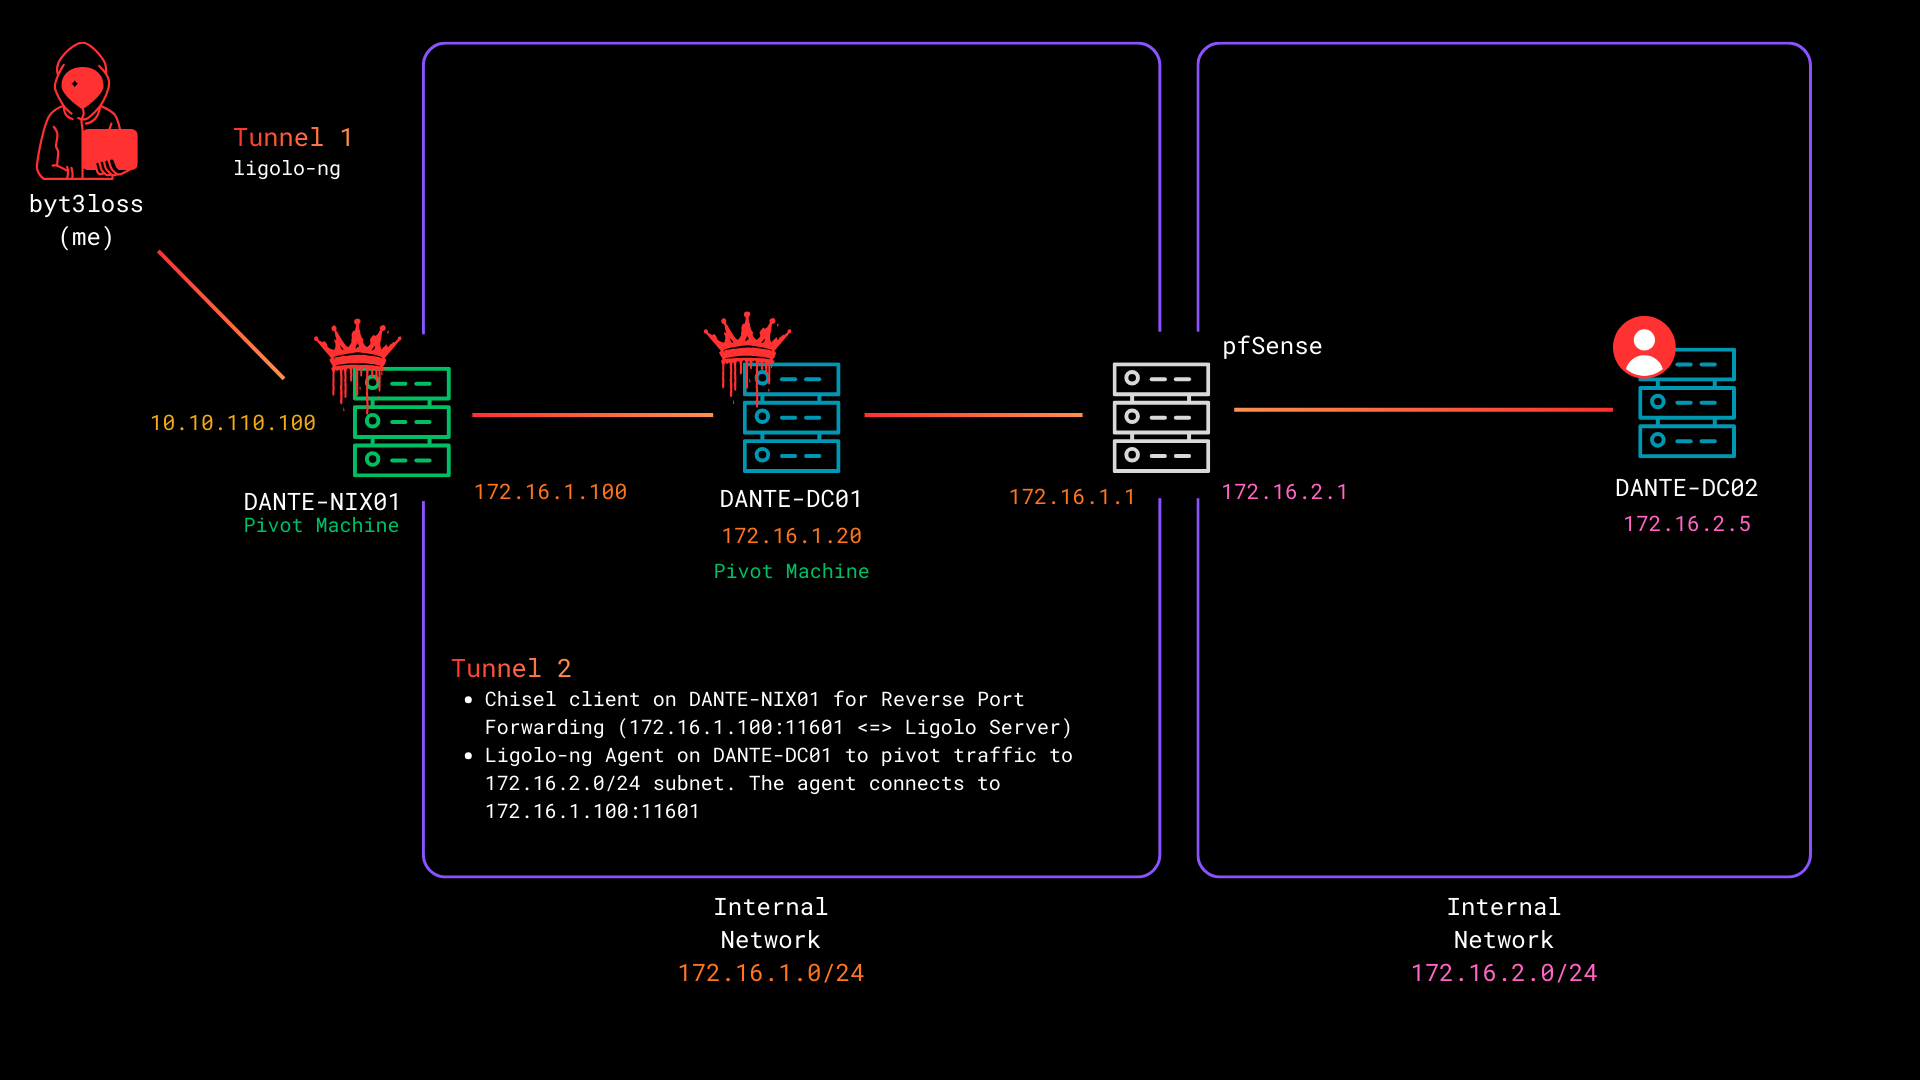
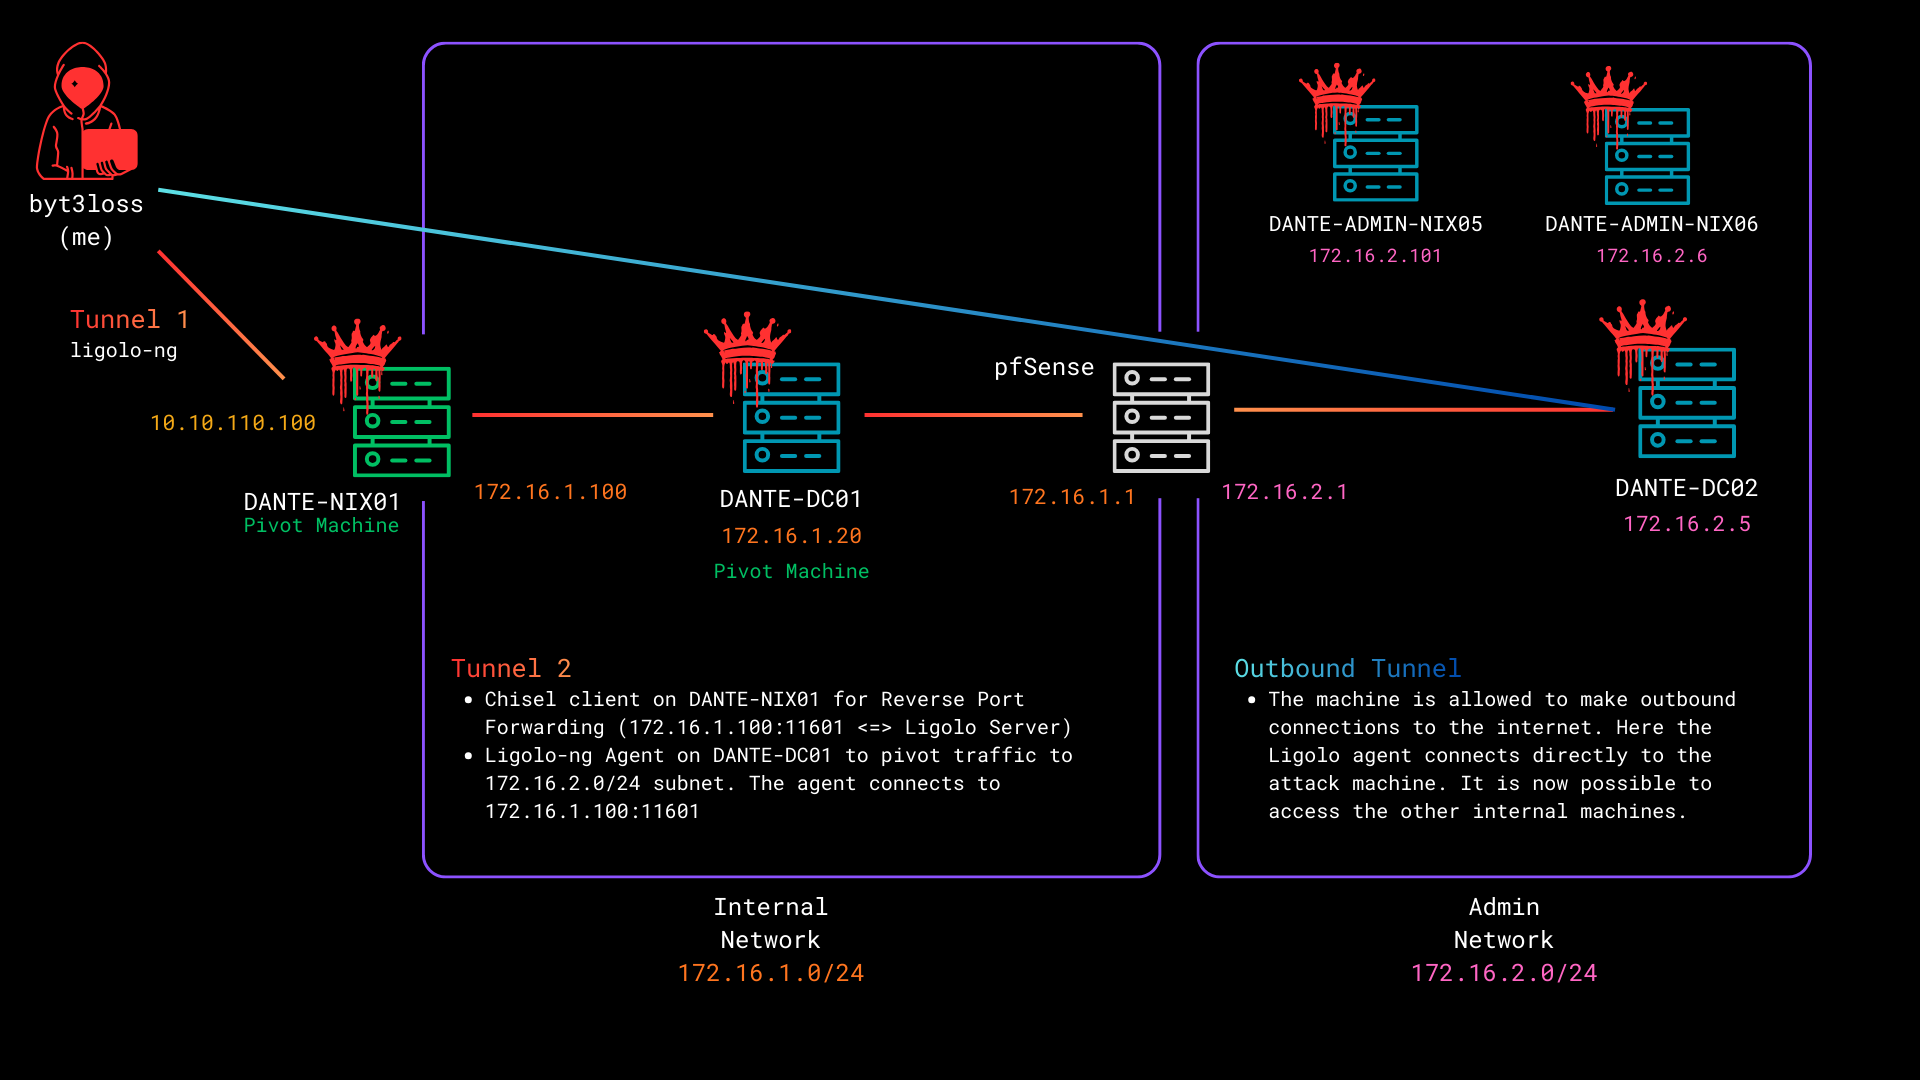
Update Dante post

diff --git a/2026-02-05-htb-dante.md b/2026-02-05-htb-dante.md
@@ -11,14 +11,20 @@ tags: []
 ![](assets/images/htb_dante_chart1.png)
 
 - **Date**: 2026-02-05
-    - **Captured flags**: 15
+    - **Captured flags**: 15/27
     - **Root foothold**: 6
-    - **User foothold**: 1
+    - **User foothold only**: 1
 
 - **Date**: 2026-02-06
-    - **Captured flags**: 18
+    - **Captured flags**: 18/27
     - **Root foothold**: 7
-    - **User foothold**: 2
+    - **User foothold only**: 2
     - Gained access to `172.16.2.0/24` subnet.
+
+- **Date**: 2026-02-14
+    - **Captured flags**: 24/27
+    - **Root foothold**: 11
+    - **User foothold only**: 1
+    - Rooted all machines in `172.16.2.0/24` subnet.
 
 ![](assets/images/htb_dante_subnet_pivot.png)
